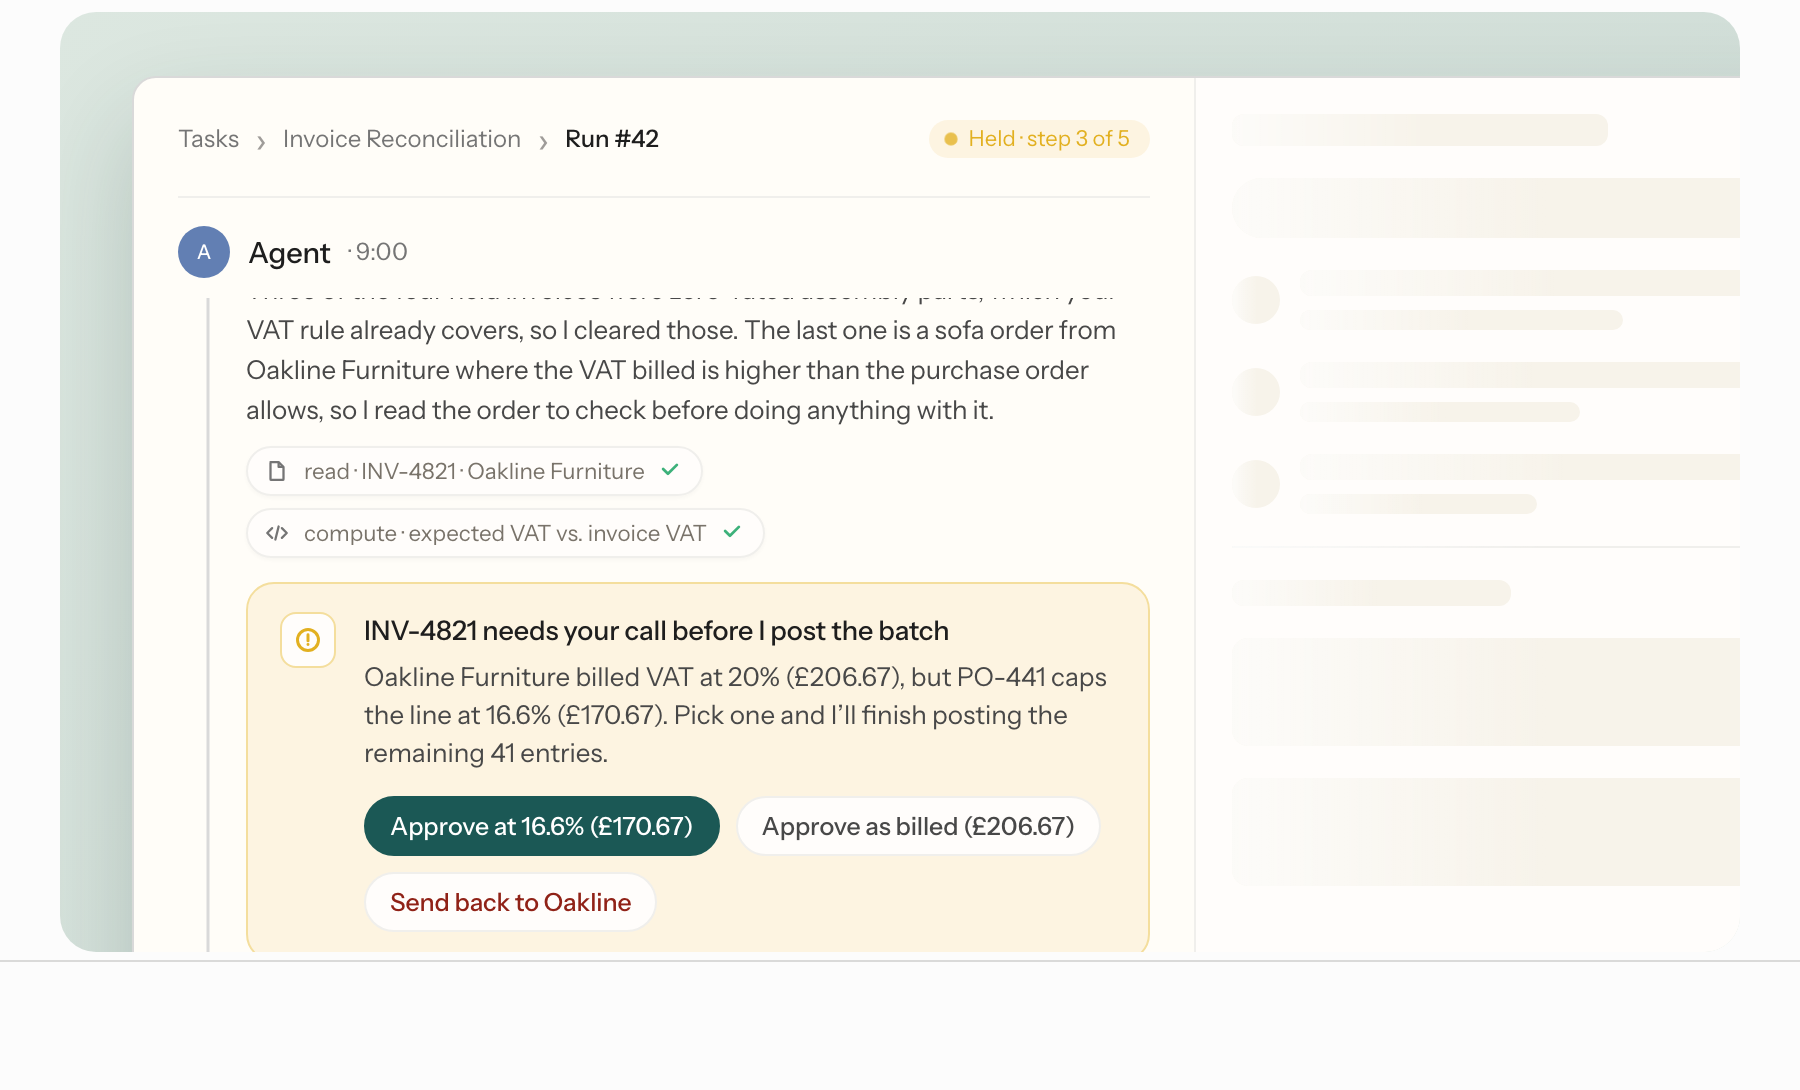
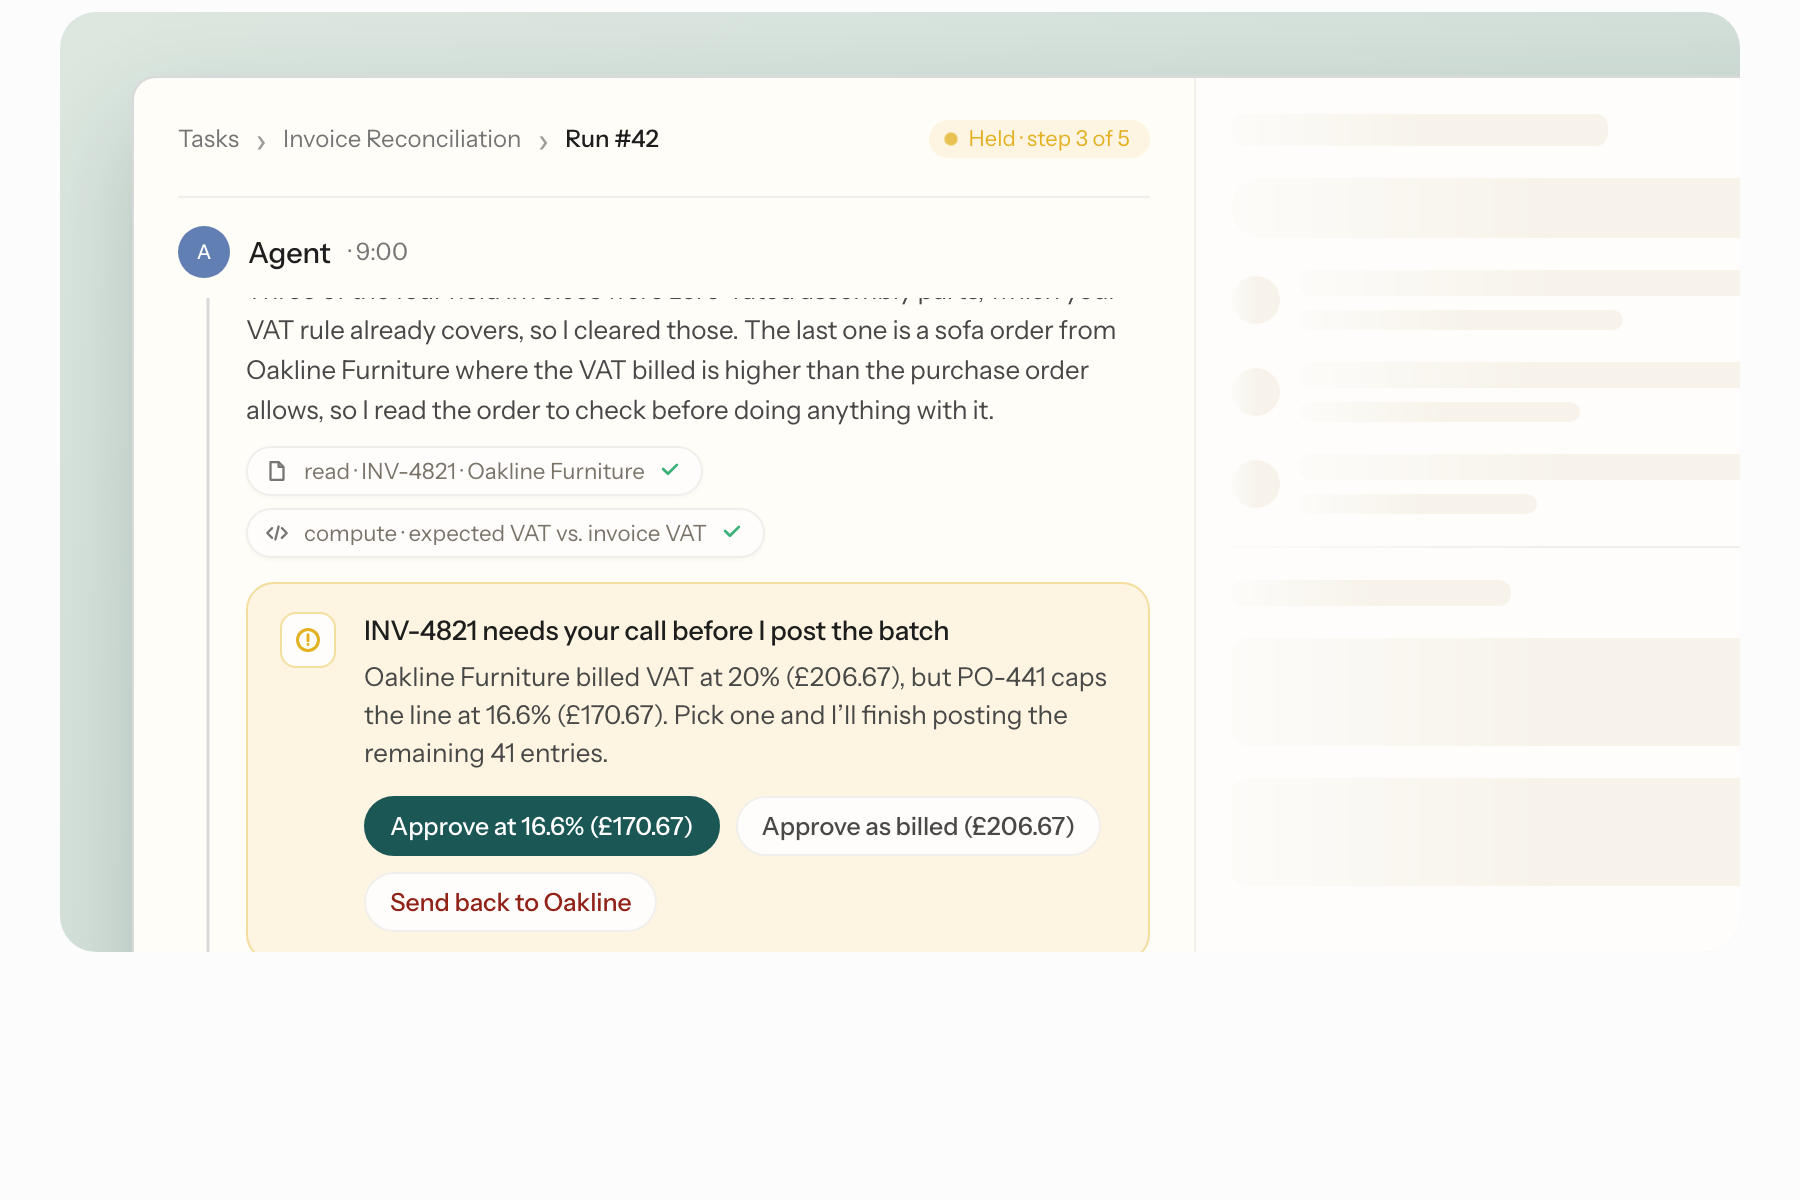
Fix homepage previews and ship the CS03 cover video
- CS01 card thumbnail re-rendered at 3:2 so it fills the card without
  the sides being cropped
- Publish assets/case-03/gaia-cover.mp4 + .jpg (un-ignored) so the CS03
  card video and the bootcamp preview hero load on the deployed site
- Nudge muted thumbnail video to autoplay reliably across browsers
- Remove the "Prototype, editorial direction" note from the homepage

Changed region(s): [[0.0933, 0.1872, 0.6533, 0.8734], [0.0622, 0.0624, 0.9644, 0.156], [0.0311, 0.7798, 0.0933, 0.8734]]

diff --git a/index.html b/index.html
@@ -548,13 +548,21 @@
             </div>
         </footer>
 
-        <div class="proto-note">Prototype, editorial direction</div>
-
         <script>
             (function () {
                 var reduced = matchMedia(
                     "(prefers-reduced-motion: reduce)",
                 ).matches;
+                /* nudge any muted preview videos to autoplay reliably */
+                if (!reduced) {
+                    document
+                        .querySelectorAll(".r-thumb video[autoplay]")
+                        .forEach(function (v) {
+                            v.muted = true;
+                            var p = v.play();
+                            if (p && p.catch) p.catch(function () {});
+                        });
+                }
                 var fine = matchMedia(
                     "(hover: hover) and (pointer: fine)",
                 ).matches;